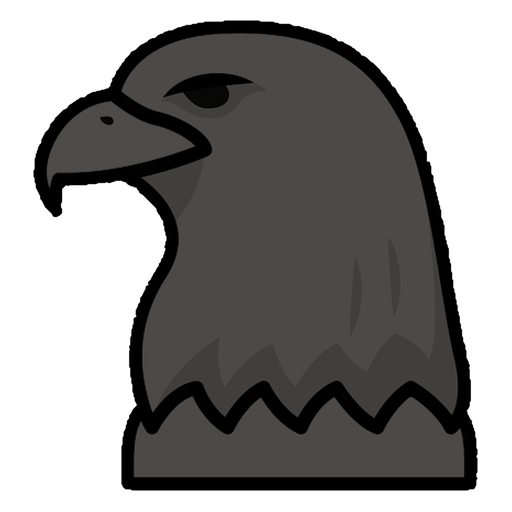
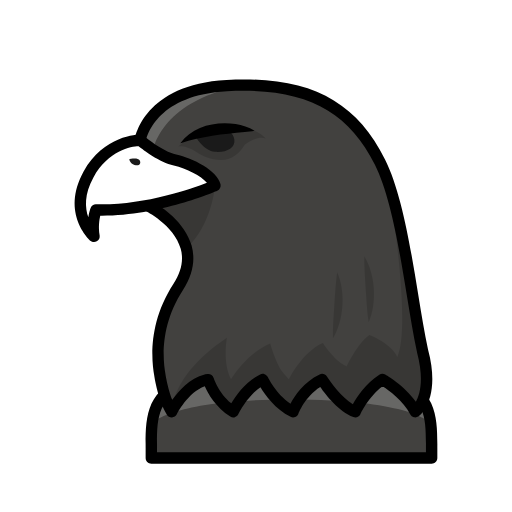
m-art: XXL / Gothic / Seirawan (TTimDDC4Cwc) fairy pieces = chess.com's exact variant art at 512px (Chancellor, Camel, General, Archbishop, Amazon, Hawk, Elephant); RESUME refreshed

diff --git a/data/modes/n-sYPJVwaXs.js b/data/modes/n-sYPJVwaXs.js
@@ -12,11 +12,11 @@ CM.mode({
   opponent: { name: 'TheSpartain1', rating: 1500, avatar: null, tagline: 'Online XXL opponent, 5-minute game.' },
   board: { files: 16, ranks: 16, light: '#ecf2cf', dark: '#7b9d59' },
   pieces: {
-    C: { name: 'Chancellor', moves: 'RN', value: 850, glyph: null, img: { w: 'assets/modes/yXE14E0QKNI/w_chancellor.svg', b: 'assets/modes/yXE14E0QKNI/b_chancellor.svg' } },
-    I: { name: 'Camel', moves: 'C', value: 250, glyph: 'N', badge: 'CA' },
-    G: { name: 'General', moves: 'KN', value: 560, glyph: null, img: { w: 'assets/modes/yXE14E0QKNI/w_general.svg', b: 'assets/modes/yXE14E0QKNI/b_general.svg' } },
-    A: { name: 'Archbishop', moves: 'BN', value: 750, glyph: null, img: { w: 'assets/modes/yXE14E0QKNI/w_archbishop.svg', b: 'assets/modes/yXE14E0QKNI/b_archbishop.svg' } },
-    M: { name: 'Amazon', moves: 'QN', value: 1250, glyph: null, img: { w: 'assets/modes/yXE14E0QKNI/w_amazon.svg', b: 'assets/modes/yXE14E0QKNI/b_amazon.svg' } }
+    C: { name: 'Chancellor', moves: 'RN', value: 850, glyph: null, img: { w: 'assets/modes/n-sYPJVwaXs/chancellor_w.png', b: 'assets/modes/n-sYPJVwaXs/chancellor_b.png' } },
+    I: { name: 'Camel', moves: 'C', value: 250, glyph: 'N', badge: null, img: { w: 'assets/modes/n-sYPJVwaXs/camel_w.png', b: 'assets/modes/n-sYPJVwaXs/camel_b.png' } },
+    G: { name: 'General', moves: 'KN', value: 560, glyph: null, img: { w: 'assets/modes/n-sYPJVwaXs/general_w.png', b: 'assets/modes/n-sYPJVwaXs/general_b.png' } },
+    A: { name: 'Archbishop', moves: 'BN', value: 750, glyph: null, img: { w: 'assets/modes/n-sYPJVwaXs/archbishop_w.png', b: 'assets/modes/n-sYPJVwaXs/archbishop_b.png' } },
+    M: { name: 'Amazon', moves: 'QN', value: 1250, glyph: null, img: { w: 'assets/modes/n-sYPJVwaXs/amazon_w.png', b: 'assets/modes/n-sYPJVwaXs/amazon_b.png' } }
   },
[1 lines of base64/hex data omitted]
   rules: { castling: false, promotion: { choices: ['Q', 'N', 'R', 'B'], zone: 8 } },

diff --git a/data/modes/yXE14E0QKNI.js b/data/modes/yXE14E0QKNI.js
@@ -11,8 +11,8 @@ CM.mode({
   player: { name: 'ireallywantcheckmate', rating: null, avatar: 'assets/modes/uUXev8TPVak/iwantcheckmate.png' },   /* iwantcheckmate's chess.com handle + purple-king avatar from the frames */
   opponent: { name: 'professork…', rating: 1500, avatar: 'assets/modes/yXE14E0QKNI/opp1.png', tagline: 'Online Gothic Chess player.' },
   board: { files: 10, ranks: 8, light: '#ebecd0', dark: '#739552' },
-  pieces: { /* ov-art3: Chancellor / Archbishop drawn as cburnett knight+rook / knight+bishop composites (was a rook/bishop glyph with an RN/BN badge) */
-    C: { glyph: null, img: { w: 'assets/modes/yXE14E0QKNI/w_chancellor.svg', b: 'assets/modes/yXE14E0QKNI/b_chancellor.svg' } }, A: { glyph: null, img: { w: 'assets/modes/yXE14E0QKNI/w_archbishop.svg', b: 'assets/modes/yXE14E0QKNI/b_archbishop.svg' } } },
+  pieces: { /* m-art 2026-11-26: Chancellor / Archbishop = chess.com's exact variant art (assets/modes/n-sYPJVwaXs, see its source.notes; the 2:10 frame shows the black chancellor) */
+    C: { glyph: null, img: { w: 'assets/modes/n-sYPJVwaXs/chancellor_w.png', b: 'assets/modes/n-sYPJVwaXs/chancellor_b.png' } }, A: { glyph: null, img: { w: 'assets/modes/n-sYPJVwaXs/archbishop_w.png', b: 'assets/modes/n-sYPJVwaXs/archbishop_b.png' } } },
   setup: { fen: 'rnbqckabnr/pppppppppp/10/10/10/10/PPPPPPPPPP/RNBQCKABNR' },
   rules: { promotion: { choices: ['Q', 'C', 'A', 'R', 'B', 'N'] } },
   clock: { w: 300, b: 300, inc: 0 },

diff --git a/data/modes/TTimDDC4Cwc.js b/data/modes/TTimDDC4Cwc.js
@@ -15,7 +15,7 @@ CM.mode({
   board: { files: 8, ranks: 8, light: '#ebf2d0', dark: '#7b9d58' },
   pieces: {
     H: { img: { w: 'assets/modes/TTimDDC4Cwc/hawk.png', b: 'assets/modes/TTimDDC4Cwc/hawk_b.png' }, name: 'Hawk', moves: 'BN', value: 760 },
-    E: { name: 'Elephant', moves: 'RN', value: 860, glyph: 'R', badge: 'E' }
+    E: { name: 'Elephant', moves: 'RN', value: 860, glyph: 'R', badge: null, img: { w: 'assets/modes/TTimDDC4Cwc/elephant_w.png', b: 'assets/modes/TTimDDC4Cwc/elephant_b.png' } }
   },
   setup: { fen: 'rnbqkbnr/pppppppp/8/8/8/8/PPPPPPPP/RNBQKBNR', x: { res: { w: 'HE', b: 'HE' } } },
   rules: { promotion: { choices: ['Q', 'N', 'R', 'B', 'H', 'E'] } },

diff --git a/research/polish_report.md b/research/polish_report.md
@@ -524,7 +524,8 @@ HANDOFF item 8 (art still invented or weak). Shotgun King white set checked: kep
   Not swapped (chess.com art differs from the video crop): VBsA2Z6ijkg emir/elani, GQ6MT1m78Yo + VBsA2Z6ijkg martin (grey-toned in the video), xu4yhPGGjTg botez, D2B85mhGtT0 hikaru, vwJw6aaggn8 zach (already the chess.com art on the video's purple). CHECK: WLmt62Ll9Hs/laura.png shows a bearded man, chess.com Laura-BOT is a woman: verify against the video.
 - 3 photo avatars (t8VWAr2UicA opp1/opp2, xAFkE7-Jp88 opp1): still LEFT. The 2025 videos' account games are not in the public archives of iwantcheckmate / ireallywantcheckmate (checked all archives for menduco1*, BarbarIAN*, antoniomar*), and chess.com's user search needs a login.
 - chess.com variant piece crops (160px) -> chess.com's exact variant SVG art (variants.js current theme, colours sampled from the old crops), 512px: boaA9_TjXeU 4PC army (archbishop, bishop, general x2, king, nightrider x2, queen, sergeant x2, soldier x2, wildebeest), Amazon w/b (nWEiDXSnEwc, onv0NOspxH8, G3Helsp7ytI), Grasshopper w/b (L_6xy4JxrKA), Hawk w/b (DGlqJG6kzn8). QA 390: 6/6 ok. Not swapped (chess.com's current art differs from the video): DGlqJG6kzn8 elephant, HtNZ9DTxHUs/cR6r8NZz-CA dragons.
-RESUME: m-art last step = variant piece batch pushed; next = remaining small piece sprites (sandbox /workspace/work/m_m-art_w/pieces_small.tsv): Kzt9ItpGtYg tokens, qDkxrnZfeXw knook/anti-queen, piiE6JB8pWw bishop, spJibM5qaNQ pixel sprites, 1L_sxGgxX9M rainbow bishop.
+- XXL (n-sYPJVwaXs: Chancellor, Camel, General, Archbishop, Amazon), Gothic (yXE14E0QKNI: Chancellor, Archbishop), Seirawan (TTimDDC4Cwc: Hawk + Elephant) = chess.com's exact variant SVG art, 512px (assets/modes/n-sYPJVwaXs/, TTimDDC4Cwc/); Camel/Elephant badges gone. Passant modes (qZyNuiVbGMI, rMSar6g_2HY) keep the yXE14E0QKNI/*.svg composites (not chess.com). QA 390: 3/3 ok.
+RESUME (m-art, 12:52 PM ET): all work pushed. Method for chess.com variant pieces: curl https://www.chess.com/r2/client-packages/variants/2026.11.4/variants.js, regex r"\[Ye\.(\w+)\]:'((?:\\'|[^'])*)'" -> SVG bodies; entries 111-146 = current theme (matches the videos); wrap in <svg viewBox="0 0 180 180">, replace ___COLORCODE___ (white #f9f9f9, black #42413f, 4PC red #bf3b43 green #4e9161), render 512px in headless Chromium (omit_background). Bot avatars: api.chess.com/pub/player/<name>-bot avatar -> 512 premultiplied Lanczos; always compare with the old crop first. NEXT: (1) RhncYQJA-FQ Amazon/Nightrider + UZ79sKLa6z4 Alfil/Dabbaba/riders still glyph+badge: check frames, then same method; (2) remaining small sprites in order of visibility: Kzt9ItpGtYg Pawnbarian tokens (160px), qDkxrnZfeXw knook/anti-queen (128), piiE6JB8pWw bishop (128), spJibM5qaNQ pixel sprites (re-scale nearest on their pixel grid), 1L_sxGgxX9M rainbow bishop; (3) check WLmt62Ll9Hs/laura.png (shows a man) + VBsA2Z6ijkg emir/elani against the video; (4) 3 photo avatars t8VWAr2UicA/xAFkE7-Jp88 stay LEFT (no source).
 
 ## m-3d (2026-11-26)
 Items: HANDOFF #2 (Chess Ultimate cu cutouts + game-fx second half), #3 (3D audit batch 2 + staunton3d), then #4 (Battle Chess polish). Clone /workspace/work/m_m-3d, main only.
